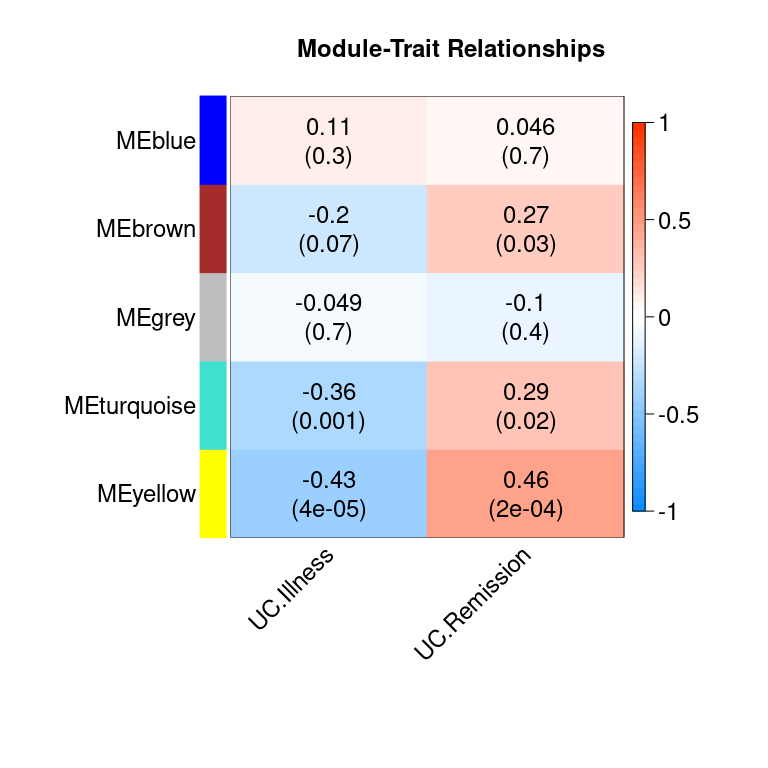
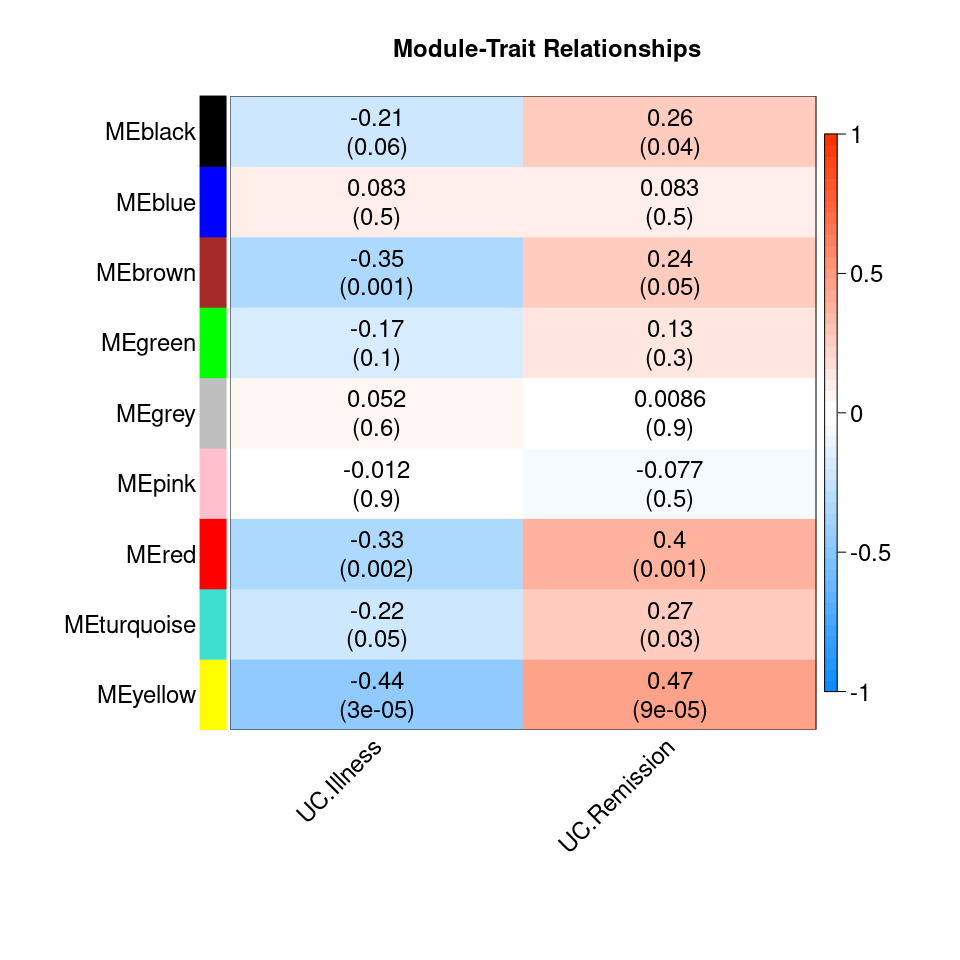
docs: update README

diff --git a/README.md b/README.md
@@ -50,7 +50,7 @@ prefixes `Ratio H/L` and `Ratio H/L normalized`.
 ### Label-free MS data
 
 The expression levels of proteins are stored in the columns with the
-prefixes `LFQ intensity` or `Intensity`.
+prefixes `LFQ intensity` or similar.
 
 ## Details
 
@@ -97,6 +97,7 @@ R package `targidcn` contains:
     -   `GeneSignificance()`
     -   `ModuleMembership()`
     -   `GetRelatedHubGenes()`
+    -   `GetSignificantGenes()`
 
 ## Tutorial
 
@@ -107,7 +108,7 @@ library(targidcn) %>% suppressMessages()
 
 datadir = system.file("extdata", "MS_label-free", "MaxQuantOutput_50", package = "targidcn")
 pheno = ReadPhenotypeTable(file.path(datadir, "phenotype.txt"))
-assay = ReadProteinGroups(datadir)
+assay = ReadProteinGroups(datadir, col = "Intensity")
 assay
 #> An object of class ProteinGroups
 #> 
@@ -124,7 +125,7 @@ cn = assay %>%
   Reshape() %>% 
   LogTransform() %>% 
   Normalize() %>% 
-  AddNetwork(power = 6) %>% 
+  AddNetwork(power = 3) %>% 
   AddConnectivity()
 #> Warning in QC.ProteinGroups(.): No column for checking false hits!
 #> Warning in QC.ProteinGroups(.): No column for checking unique peptides!
@@ -132,7 +133,7 @@ cn = assay %>%
 #> ..matrix multiplication (system BLAS)..
 #> ..normalization..
 #> ..done.
-#>  ..cutHeight not given, setting it to 0.999  ===>  99% of the (truncated) height range in dendro.
+#>  ..cutHeight not given, setting it to 0.983  ===>  99% of the (truncated) height range in dendro.
 #>  ..done.
 #>  mergeCloseModules: Merging modules whose distance is less than 0.15
 #>    Calculating new MEs...
@@ -163,43 +164,47 @@ cn
 #>  $ powerEstimate: list()
 #>  $ network      :List of 1
 #>   ..$ Intensity:List of 10
-#>   .. ..$ power           : num 6
+#>   .. ..$ power           : num 3
 #>   .. ..$ MEDissThres     : num 0.15
 #>   .. ..$ minModuleSize   : num 30
-#>   .. ..$ adjacency       : num [1:846, 1:846] 1.00 1.78e-07 3.47e-04 1.31e-06 2.02e-12 ...
+#>   .. ..$ adjacency       : num [1:846, 1:846] 1.00 4.22e-04 1.86e-02 1.15e-03 1.42e-06 ...
 #>   .. .. ..- attr(*, "dimnames")=List of 2
 #>   .. .. .. ..$ : chr [1:846] "A1BG" "AGR2" "ANXA2.ANXA2P2" "BSG" ...
 #>   .. .. .. ..$ : chr [1:846] "A1BG" "AGR2" "ANXA2.ANXA2P2" "BSG" ...
-#>   .. ..$ dissTOM         : num [1:846, 1:846] 0 0.999 0.997 0.999 1 ...
+#>   .. ..$ dissTOM         : num [1:846, 1:846] 0 0.971 0.966 0.977 0.982 ...
 #>   .. ..$ geneTree        :List of 7
-#>   .. .. ..$ merge      : int [1:845, 1:2] -17 -352 -23 -18 -318 -597 -431 -493 3 -173 ...
-#>   .. .. ..$ height     : num [1:845] 0.62 0.677 0.686 0.687 0.691 ...
-#>   .. .. ..$ order      : int [1:846] 796 250 187 598 175 234 628 712 58 227 ...
+#>   .. .. ..$ merge      : int [1:845, 1:2] -17 -23 -18 -173 2 -597 5 -16 7 -431 ...
+#>   .. .. ..$ height     : num [1:845] 0.69 0.704 0.712 0.731 0.736 ...
+#>   .. .. ..$ order      : int [1:846] 84 218 796 103 587 250 43 506 712 729 ...
 #>   .. .. ..$ labels     : NULL
 #>   .. .. ..$ method     : chr "average"
 #>   .. .. ..$ call       : language fastcluster::hclust(d = stats::as.dist(dissTOM), method = "average")
 #>   .. .. ..$ dist.method: NULL
 #>   .. .. ..- attr(*, "class")= chr "hclust"
-#>   .. ..$ moduleEigengenes:'data.frame':  111 obs. of  5 variables:
-#>   .. .. ..$ MEturquoise: num [1:111] -0.2971 -0.0318 0.0856 -0.132 0.0428 ...
-#>   .. .. ..$ MEblue     : num [1:111] 0.0794 0.063 -0.0601 -0.0131 -0.2603 ...
-#>   .. .. ..$ MEbrown    : num [1:111] -0.024 0.076 -0.0939 -0.1834 -0.1365 ...
-#>   .. .. ..$ MEyellow   : num [1:111] -0.1034 0.061 -0.0071 -0.0687 -0.1588 ...
-#>   .. .. ..$ MEgrey     : num [1:111] -0.1788 -0.1398 -0.0985 -0.1133 -0.1283 ...
-#>   .. ..$ moduleColors    : Named chr [1:846] "turquoise" "blue" "yellow" "turquoise" ...
+#>   .. ..$ moduleEigengenes:'data.frame':  111 obs. of  9 variables:
+#>   .. .. ..$ MEgreen    : num [1:111] -0.0135 -0.0209 -0.0261 -0.1224 0.1697 ...
+#>   .. .. ..$ MEred      : num [1:111] -0.2495 0.0877 0.0825 -0.0354 -0.1802 ...
+#>   .. .. ..$ MEyellow   : num [1:111] -0.1074 0.0552 -0.0138 -0.047 -0.1454 ...
+#>   .. .. ..$ MEblack    : num [1:111] -0.0267 0.00353 0.00812 -0.02159 -0.00316 ...
+#>   .. .. ..$ MEbrown    : num [1:111] -0.2845 -0.0676 0.0772 -0.1323 0.1018 ...
+#>   .. .. ..$ MEpink     : num [1:111] -0.1212 -0.2116 -0.1069 -0.0872 -0.0322 ...
+#>   .. .. ..$ MEblue     : num [1:111] 0.0814 0.0795 -0.0697 -0.0374 -0.2185 ...
+#>   .. .. ..$ MEturquoise: num [1:111] -0.00106 0.09628 -0.09388 -0.17701 -0.15742 ...
+#>   .. .. ..$ MEgrey     : num [1:111] NaN NaN 0.675 0.539 NaN ...
+#>   .. ..$ moduleColors    : Named chr [1:846] "green" "blue" "black" "brown" ...
 #>   .. .. ..- attr(*, "names")= chr [1:846] "A1BG" "AGR2" "ANXA2.ANXA2P2" "BSG" ...
-#>   .. ..$ moduleLabels    : Named num [1:846] 1 2 4 1 0 1 4 1 1 1 ...
+#>   .. ..$ moduleLabels    : Named num [1:846] 5 2 7 3 1 7 6 6 6 3 ...
 #>   .. .. ..- attr(*, "names")= chr [1:846] "A1BG" "AGR2" "ANXA2.ANXA2P2" "BSG" ...
-#>   .. ..$ unmergedColors  : Named chr [1:846] "turquoise" "blue" "yellow" "turquoise" ...
+#>   .. ..$ unmergedColors  : Named chr [1:846] "green" "blue" "black" "brown" ...
 #>   .. .. ..- attr(*, "names")= chr [1:846] "A1BG" "AGR2" "ANXA2.ANXA2P2" "BSG" ...
 #>  $ connectivity :List of 1
 #>   ..$ Intensity:Classes 'data.table' and 'data.frame':   846 obs. of  6 variables:
-#>   .. ..$ gene   : chr [1:846] "C3" "HP" "APOA1" "A2M" ...
-#>   .. ..$ kTotal : num [1:846] 0.915 1.144 1.013 0.553 0.667 ...
-#>   .. ..$ kWithin: num [1:846] 0.424 0.379 0.311 0.176 0.122 ...
-#>   .. ..$ kOut   : num [1:846] 0.49 0.765 0.701 0.377 0.545 ...
-#>   .. ..$ kDiff  : num [1:846] -0.0659 -0.3865 -0.3899 -0.2008 -0.4232 ...
-#>   .. ..$ module : num [1:846] 0 0 0 0 0 0 0 0 0 0 ...
+#>   .. ..$ gene   : chr [1:846] "ACTBL2" "DCN" "COL6A2" "COL6A1" ...
+#>   .. ..$ kTotal : num [1:846] 2.14 56.14 52.72 52.42 56.4 ...
+#>   .. ..$ kWithin: num [1:846] 0 29.6 27.5 27.3 26.2 ...
+#>   .. ..$ kOut   : num [1:846] 2.14 26.57 25.27 25.17 30.17 ...
+#>   .. ..$ kDiff  : num [1:846] -2.14 3 2.18 2.09 -3.94 ...
+#>   .. ..$ module : num [1:846] 0 1 1 1 1 1 1 1 1 1 ...
 #>   .. ..- attr(*, ".internal.selfref")=<externalptr>
 ```
 
@@ -224,24 +229,81 @@ cn %>% ModulePlot(preview = TRUE)
 
 ``` r
 cn %>% GetHubGenes()
-#>      gene         ensembl                                             fullname
-#> 1: ATP12A ENSG00000075673 ATPase H+/K+ transporting non-gastric alpha2 subunit
-#> 2: ATP1A1 ENSG00000163399           ATPase Na+/K+ transporting subunit alpha 1
-#> 3:   ENO1 ENSG00000074800                                            enolase 1
-#> 4: COL6A1 ENSG00000142156                       collagen type VI alpha 1 chain
-#> 5:    DCN ENSG00000011465                                              decorin
-#> 6: COL6A2 ENSG00000142173                       collagen type VI alpha 2 chain
-#> 7:    DLD ENSG00000091140                       dihydrolipoamide dehydrogenase
-#> 8: SUCLG2 ENSG00000172340        succinate-CoA ligase GDP-forming subunit beta
-#>       kTotal   kWithin      kOut      kDiff module
-#> 1:  8.493045  5.030402 3.4626427  1.5677597      1
-#> 2:  5.720120  4.883286 0.8368346  4.0464514      1
-#> 3:  8.331755  6.325000 2.0067549  4.3182450      2
-#> 4: 14.027675 11.122084 2.9055901  8.2164943      3
-#> 5: 14.676139 10.986816 3.6893238  7.2974918      3
-#> 6: 13.141510 10.078089 3.0634212  7.0146680      3
-#> 7:  8.740479  4.281549 4.4589306 -0.1773816      4
-#> 8:  7.336496  3.912245 3.4242513  0.4879937      4
+#>          gene         ensembl
+#>  1:       DCN ENSG00000011465
+#>  2:    COL6A2 ENSG00000142173
+#>  3:    COL6A1 ENSG00000142156
+#>  4:      ENO1 ENSG00000074800
+#>  5:     RPS25 ENSG00000118181
+#>  6:    TUBB4B ENSG00000188229
+#>  7:     RPL24 ENSG00000114391
+#>  8:      AGR2 ENSG00000106541
+#>  9:    ATP1A1 ENSG00000163399
+#> 10:    ATP12A ENSG00000075673
+#> 11:       DLD ENSG00000091140
+#> 12:      ACO2 ENSG00000100412
+#> 13:      ETFB ENSG00000105379
+#> 14:    SUCLG2 ENSG00000172340
+#> 15:  DYNC1LI2 ENSG00000135720
+#> 16:      SBDS ENSG00000126524
+#> 17:     HCFC1 ENSG00000172534
+#> 18:     CDH17 ENSG00000079112
+#> 19:      NPM3 ENSG00000107833
+#> 20:    SUCLG1 ENSG00000163541
+#> 21:     YWHAH ENSG00000128245
+#> 22:     RPL23 ENSG00000125691
+#> 23: HIST1H2BC            <NA>
+#>          gene         ensembl
+#>                                                                       fullname
+#>  1:                                                                    decorin
+#>  2:                                             collagen type VI alpha 2 chain
+#>  3:                                             collagen type VI alpha 1 chain
+#>  4:                                                                  enolase 1
+#>  5:                                                      ribosomal protein S25
+#>  6:                                                  tubulin beta 4B class IVb
+#>  7:                                                      ribosomal protein L24
+#>  8:            anterior gradient 2, protein disulphide isomerase family member
+#>  9:                                 ATPase Na+/K+ transporting subunit alpha 1
+#> 10:                       ATPase H+/K+ transporting non-gastric alpha2 subunit
+#> 11:                                             dihydrolipoamide dehydrogenase
+#> 12:                                                                aconitase 2
+#> 13:                                electron transfer flavoprotein subunit beta
+#> 14:                              succinate-CoA ligase GDP-forming subunit beta
+#> 15:                            dynein cytoplasmic 1 light intermediate chain 2
+#> 16:                                            SBDS ribosome maturation factor
+#> 17:                                                        host cell factor C1
+#> 18:                                                                cadherin 17
+#> 19:                                              nucleophosmin/nucleoplasmin 3
+#> 20:                         succinate-CoA ligase GDP/ADP-forming subunit alpha
+#> 21: tyrosine 3-monooxygenase/tryptophan 5-monooxygenase activation protein eta
+#> 22:                                                      ribosomal protein L23
+#> 23:                                                                       <NA>
+#>                                                                       fullname
+#>       kTotal   kWithin     kOut      kDiff module
+#>  1: 56.14273 29.570062 26.57267   2.997397      1
+#>  2: 52.72106 27.451019 25.27004   2.180978      1
+#>  3: 52.42157 27.255657 25.16592   2.089741      1
+#>  4: 44.08754 21.350882 22.73665  -1.385772      2
+#>  5: 44.03379 20.308507 23.72528  -3.416776      2
+#>  6: 37.38324 19.752458 17.63079   2.121672      2
+#>  7: 36.75099 19.728635 17.02235   2.706283      2
+#>  8: 43.46318 19.446931 24.01625  -4.569318      2
+#>  9: 33.20704 17.947858 15.25918   2.688678      3
+#> 10: 45.83748 17.526120 28.31136 -10.785238      3
+#> 11: 44.44262 12.827396 31.61522 -18.787827      4
+#> 12: 32.37281 12.568779 19.80403  -7.235247      4
+#> 13: 34.58275 12.419244 22.16351  -9.744267      4
+#> 14: 40.26666 11.816279 28.45038 -16.634106      4
+#> 15: 28.64873  9.266127 19.38261 -10.116478      5
+#> 16: 29.79841  6.367648 23.43076 -17.063115      6
+#> 17: 24.93830  6.275199 18.66310 -12.387904      6
+#> 18: 30.17024  6.118044 24.05219 -17.934149      6
+#> 19: 20.88186  5.978140 14.90372  -8.925581      6
+#> 20: 21.61422  5.819644 15.79458  -9.974933      6
+#> 21: 20.37742  6.312695 14.06472  -7.752027      7
+#> 22: 21.98200  6.074109 15.90789  -9.833780      7
+#> 23: 28.50703  7.545801 20.96123 -13.415429      8
+#>       kTotal   kWithin     kOut      kDiff module
 ```
 
 ``` r
@@ -260,16 +322,30 @@ mt %>% ModuleTraitHeatmap(preview = TRUE)
 
 ``` r
 mt %>% GetRelatedHubGenes()
-#>      gene         ensembl                                             fullname
-#> 1: ATP12A ENSG00000075673 ATPase H+/K+ transporting non-gastric alpha2 subunit
-#> 2: ATP1A1 ENSG00000163399           ATPase Na+/K+ transporting subunit alpha 1
-#> 3:    DLD ENSG00000091140                       dihydrolipoamide dehydrogenase
-#> 4: SUCLG2 ENSG00000172340        succinate-CoA ligase GDP-forming subunit beta
-#>      kTotal  kWithin      kOut      kDiff module
-#> 1: 8.493045 5.030402 3.4626427  1.5677597      1
-#> 2: 5.720120 4.883286 0.8368346  4.0464514      1
-#> 3: 8.740479 4.281549 4.4589306 -0.1773816      4
-#> 4: 7.336496 3.912245 3.4242513  0.4879937      4
+#>       gene         ensembl                                             fullname
+#>  1: ATP1A1 ENSG00000163399           ATPase Na+/K+ transporting subunit alpha 1
+#>  2: ATP12A ENSG00000075673 ATPase H+/K+ transporting non-gastric alpha2 subunit
+#>  3:    DLD ENSG00000091140                       dihydrolipoamide dehydrogenase
+#>  4:   ACO2 ENSG00000100412                                          aconitase 2
+#>  5:   ETFB ENSG00000105379          electron transfer flavoprotein subunit beta
+#>  6: SUCLG2 ENSG00000172340        succinate-CoA ligase GDP-forming subunit beta
+#>  7:   SBDS ENSG00000126524                      SBDS ribosome maturation factor
+#>  8:  HCFC1 ENSG00000172534                                  host cell factor C1
+#>  9:  CDH17 ENSG00000079112                                          cadherin 17
+#> 10:   NPM3 ENSG00000107833                        nucleophosmin/nucleoplasmin 3
+#> 11: SUCLG1 ENSG00000163541   succinate-CoA ligase GDP/ADP-forming subunit alpha
+#>       kTotal   kWithin     kOut      kDiff module
+#>  1: 33.20704 17.947858 15.25918   2.688678      3
+#>  2: 45.83748 17.526120 28.31136 -10.785238      3
+#>  3: 44.44262 12.827396 31.61522 -18.787827      4
+#>  4: 32.37281 12.568779 19.80403  -7.235247      4
+#>  5: 34.58275 12.419244 22.16351  -9.744267      4
+#>  6: 40.26666 11.816279 28.45038 -16.634106      4
+#>  7: 29.79841  6.367648 23.43076 -17.063115      6
+#>  8: 24.93830  6.275199 18.66310 -12.387904      6
+#>  9: 30.17024  6.118044 24.05219 -17.934149      6
+#> 10: 20.88186  5.978140 14.90372  -8.925581      6
+#> 11: 21.61422  5.819644 15.79458  -9.974933      6
 ```
 
 ## References
@@ -289,5 +365,8 @@ van der Post S, Jabbar KS, Birchenough G, et al.
 Gut. 2019;68(12):2142-2151. <doi:10.1136/gutjnl-2018-317571>
 
 <!-- 
-You'll still need to render `README.Rmd` regularly, to keep `README.md` up-to-date. `devtools::build_readme()` is handy for this. You could also use GitHub Actions to re-render `README.Rmd` every time you push. An example workflow can be found here: <https://github.com/r-lib/actions/tree/v1/examples>.
+You'll still need to render `README.Rmd` regularly, to keep `README.md` up-to-date. 
+`devtools::build_readme()` is handy for this. You could also use GitHub Actions to 
+re-render `README.Rmd` every time you push. An example workflow can be found here: 
+<https://github.com/r-lib/actions/tree/v1/examples>.
 --->
